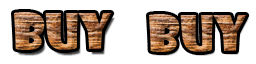
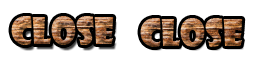
Измнение графики и игрового процесса
- Добавлено изображение диалогового окна при окнчании нападения;
- Уменьшены цены на дома и рабочих.

diff --git a/src/ru/majestic/thetown/resources/ResourceManager.java b/src/ru/majestic/thetown/resources/ResourceManager.java
@@ -76,6 +76,7 @@ public class ResourceManager {
    private BitmapTextureAtlas shopBuildingsTitleFontTextureAtlas;
    private BitmapTextureAtlas shopBuildingsTextFontTextureAtlas;
    
+   private BitmapTextureAtlas attackResultTitleFontTextureAtlas;
    private BitmapTextureAtlas attackResultFontTextureAtlas;
    
    private BitmapTextureAtlas errorFontTextureAtlas;
@@ -97,6 +98,7 @@ public class ResourceManager {
    
    private Font               shopBuildingsTitleFont;
    private Font               shopBuildingsTextFont;
+   private Font               attackResultTitleTextFont;
    private Font               attackResultTextFont;
    
    private Font               errorTextFont;
@@ -156,7 +158,7 @@ public class ResourceManager {
       workerFoodTextureRegion                   = BitmapTextureAtlasTextureRegionFactory.createFromAsset(workersShopTextureAtals, context, "gfx/shops/workers/worker_food_icon.png", 128, 256);
       workerDefenceTextureRegion                = BitmapTextureAtlasTextureRegionFactory.createFromAsset(workersShopTextureAtals, context, "gfx/shops/workers/worker_defence_icon.png", 128, 384);
       
-      attackTextureAtals                        = new BitmapTextureAtlas(engine.getTextureManager(), 512, 256);
+      attackTextureAtals                        = new BitmapTextureAtlas(engine.getTextureManager(), 1024, 1024);
       closeButtonTextureRegion                  = BitmapTextureAtlasTextureRegionFactory.createTiledFromAsset(attackTextureAtals, context, "gfx/attack/close_btn.png", 0, 0, 2, 1);
       attackDialogBgndTextureRegion             = BitmapTextureAtlasTextureRegionFactory.createFromAsset(attackTextureAtals, context, "gfx/attack/attack_dialog_background.png", 0, 64);
       
@@ -183,6 +185,7 @@ public class ResourceManager {
       addersFontTextureAtlas              = new BitmapTextureAtlas(engine.getTextureManager(), 256, 256, TextureOptions.BILINEAR_PREMULTIPLYALPHA);
       shopBuildingsTitleFontTextureAtlas  = new BitmapTextureAtlas(engine.getTextureManager(), 256, 256, TextureOptions.BILINEAR_PREMULTIPLYALPHA);
       shopBuildingsTextFontTextureAtlas   = new BitmapTextureAtlas(engine.getTextureManager(), 256, 256, TextureOptions.BILINEAR_PREMULTIPLYALPHA);            
+      attackResultTitleFontTextureAtlas   = new BitmapTextureAtlas(engine.getTextureManager(), 256, 256, TextureOptions.BILINEAR_PREMULTIPLYALPHA);
       attackResultFontTextureAtlas        = new BitmapTextureAtlas(engine.getTextureManager(), 256, 256, TextureOptions.BILINEAR_PREMULTIPLYALPHA);
       errorFontTextureAtlas               = new BitmapTextureAtlas(engine.getTextureManager(), 256, 256, TextureOptions.BILINEAR_PREMULTIPLYALPHA);
       
@@ -197,7 +200,8 @@ public class ResourceManager {
       addersFont              = FontFactory.createFromAsset(engine.getFontManager(), addersFontTextureAtlas, context.getAssets(), "fonts/main.ttf", 18, true, fontsColor);
       shopBuildingsTitleFont  = FontFactory.createFromAsset(engine.getFontManager(), shopBuildingsTitleFontTextureAtlas, context.getAssets(), "fonts/main.ttf", 20, true, fontsColor);
       shopBuildingsTextFont   = FontFactory.createFromAsset(engine.getFontManager(), shopBuildingsTextFontTextureAtlas, context.getAssets(), "fonts/main.ttf", 20, true, fontsColor);
-      attackResultTextFont    = FontFactory.createFromAsset(engine.getFontManager(), attackResultFontTextureAtlas, context.getAssets(), "fonts/main.ttf", 32, true, fontsColor);      
+      attackResultTitleTextFont = FontFactory.createFromAsset(engine.getFontManager(), attackResultTitleFontTextureAtlas, context.getAssets(), "fonts/main.ttf", 28, true, fontsColor);
+      attackResultTextFont    = FontFactory.createFromAsset(engine.getFontManager(), attackResultFontTextureAtlas, context.getAssets(), "fonts/main.ttf", 18, true, fontsColor);
       errorTextFont           = FontFactory.createFromAsset(engine.getFontManager(), errorFontTextureAtlas, context.getAssets(), "fonts/main.ttf", 32, true, Color.parseColor("#FF0000"));
       
       engine.getTextureManager().loadTexture(shopTitleFontTextureAtlas);
@@ -209,6 +213,7 @@ public class ResourceManager {
       engine.getTextureManager().loadTexture(addersFontTextureAtlas);
       engine.getTextureManager().loadTexture(shopBuildingsTitleFontTextureAtlas);
       engine.getTextureManager().loadTexture(shopBuildingsTextFontTextureAtlas);
+      engine.getTextureManager().loadTexture(attackResultTitleFontTextureAtlas);
       engine.getTextureManager().loadTexture(attackResultFontTextureAtlas);
       engine.getTextureManager().loadTexture(errorFontTextureAtlas);
       
@@ -221,8 +226,10 @@ public class ResourceManager {
       engine.getFontManager().loadFont(addersFont);      
       engine.getFontManager().loadFont(shopBuildingsTitleFont);
       engine.getFontManager().loadFont(shopBuildingsTextFont);
+      engine.getFontManager().loadFont(attackResultTitleTextFont);
       engine.getFontManager().loadFont(attackResultTextFont);
       engine.getFontManager().loadFont(errorTextFont);
+      
    }
    
    private void loadBackground(Context context) {
@@ -344,8 +351,8 @@ public class ResourceManager {
       return shopItemBackgroundTextureRegion;
    }
 
-   public Font getAttackResultTextFont() {
-      return attackResultTextFont;
+   public Font getAttackResultTitleTextFont() {
+      return attackResultTitleTextFont;
    }
 
    public Font getErrorTextFont() {
@@ -390,6 +397,10 @@ public class ResourceManager {
 
    public ITiledTextureRegion getSoundIconTextureRegion() {
       return soundIconTextureRegion;
+   }
+
+   public Font getAttackResultTextFont() {
+      return attackResultTextFont;
    }
          
 }

diff --git a/src/ru/majestic/thetown/view/attack/impl/SimpleAttackView.java b/src/ru/majestic/thetown/view/attack/impl/SimpleAttackView.java
@@ -8,30 +8,42 @@ import org.andengine.entity.sprite.Sprite;
 import org.andengine.entity.text.Text;
 
 import ru.majestic.thetown.andengine.TheTownCamera;
-import ru.majestic.thetown.game.attack.IAttack;
 import ru.majestic.thetown.resources.ResourceManager;
 import ru.majestic.thetown.view.attack.IAttackView;
 import ru.majestic.thetown.view.attack.listeners.OnAttackDialogClosedListener;
+import ru.majestic.thetown.view.utils.BigValueFormatter;
 
 public class SimpleAttackView extends Sprite implements IAttackView, OnClickListener {   
 
-   private static final int PANEL_PADDING = 4;
+   private static final int PANEL_PADDING = 8;
    
    private OnAttackDialogClosedListener onAttackDialogClosedListener;
    
    private final ButtonSprite    closeBtn;
    private final Text            resultText;
+      
+   private final Sprite          woodIcon;
+   private final Text            woodResultText;
+   
+   private final Sprite          foodIcon;
+   private final Text            foodResultText;      
    
    public SimpleAttackView() {
-      super(10, 200, TheTownCamera.CAMERA_WIDTH - 20, 300, ResourceManager.getInstance().getAttackDialogBgndTextureRegion(), ResourceManager.getInstance().getEngine().getVertexBufferObjectManager());
+      super(70, 230, TheTownCamera.CAMERA_WIDTH - 140, 200, ResourceManager.getInstance().getAttackDialogBgndTextureRegion(), ResourceManager.getInstance().getEngine().getVertexBufferObjectManager());
       
       setVisible(false);
       
       closeBtn              = new ButtonSprite(0, 0, ResourceManager.getInstance().getCloseButtonTextureRegion(), ResourceManager.getInstance().getEngine().getVertexBufferObjectManager());
-      resultText            = new Text(0, PANEL_PADDING, ResourceManager.getInstance().getAttackResultTextFont(), "You've been attacked!", ResourceManager.getInstance().getEngine().getVertexBufferObjectManager());
+      resultText            = new Text(0, PANEL_PADDING, ResourceManager.getInstance().getAttackResultTitleTextFont(), "You've been attacked!", ResourceManager.getInstance().getEngine().getVertexBufferObjectManager());
       
-      closeBtn.setWidth(200);
-      closeBtn.setHeight(50);            
+      woodIcon              = new Sprite(180, 85, 40, 40, ResourceManager.getInstance().getWoodIconTextureRegion(), ResourceManager.getInstance().getEngine().getVertexBufferObjectManager());
+      woodResultText        = new Text(woodIcon.getX() + woodIcon.getWidth() + 4, woodIcon.getY() + 8, ResourceManager.getInstance().getAttackResultTextFont(), "+100.00TT", ResourceManager.getInstance().getEngine().getVertexBufferObjectManager());
+      
+      foodIcon              = new Sprite(20, 85, 40, 40, ResourceManager.getInstance().getFoodIconTextureRegion(), ResourceManager.getInstance().getEngine().getVertexBufferObjectManager());
+      foodResultText        = new Text(foodIcon.getX() + foodIcon.getWidth() + 4, foodIcon.getY() + 8, ResourceManager.getInstance().getAttackResultTextFont(), "+100.00TT", ResourceManager.getInstance().getEngine().getVertexBufferObjectManager());
+      
+      closeBtn.setWidth(100);
+      closeBtn.setHeight(40);            
       closeBtn.setX((getWidth() - (PANEL_PADDING * 2) - closeBtn.getWidth()) / 2); 
       closeBtn.setY(getHeight() - PANEL_PADDING - closeBtn.getHeight());
       
@@ -41,6 +53,12 @@ public class SimpleAttackView extends Sprite implements IAttackView, OnClickList
       
       attachChild(closeBtn);
       attachChild(resultText);
+      
+      attachChild(woodIcon);
+      attachChild(woodResultText);
+      
+      attachChild(foodIcon);
+      attachChild(foodResultText);
    }   
    
    @Override
@@ -49,7 +67,18 @@ public class SimpleAttackView extends Sprite implements IAttackView, OnClickList
    }
 
    @Override
-   public void show(IAttack attack) {
+   public void show(boolean attackResult, long wood, long food) {
+      if(attackResult) {
+         resultText.setText("You've been attacked!");         
+         woodResultText.setText("-" + BigValueFormatter.format(wood));
+         foodResultText.setText("-" + BigValueFormatter.format(food));         
+      } else {
+         resultText.setText("Attackers defeated!");
+         woodResultText.setText("+" + BigValueFormatter.format(wood));
+         foodResultText.setText("+" + BigValueFormatter.format(food));
+      }      
+      
+      resultText.setX((getWidth() - resultText.getWidth()) / 2);
       setVisible(true);
    }
    

diff --git a/src/ru/majestic/thetown/activity/GameActivity.java b/src/ru/majestic/thetown/activity/GameActivity.java
@@ -71,7 +71,7 @@ public class GameActivity extends BaseGameActivity implements OnClickerClickedLi
                                                               OnAttackDialogClosedListener,
                                                               OnSoundStateChangedListener {
 
-	private Camera 	camera;
+	private Camera 	     camera;
 	
 	private Scene          scene;
 	private IGameManager   gameManager;
@@ -216,7 +216,6 @@ public class GameActivity extends BaseGameActivity implements OnClickerClickedLi
       if(clicker == woodClicker) {
          gameManager.getCargoManager().getCargo(ICargoManager.CARGO_TYPE_WOOD).add(gameManager.getClickersManager().getClicker(IClickersManager.CLICKER_TYPE_WOOD).getResourcesPerClick());
          woodClicker.showAdder(x, y, gameManager.getClickersManager().getClicker(IClickersManager.CLICKER_TYPE_WOOD).getResourcesPerClick());
-//         ResourceManager.getInstance().getSoundsManager().getRandomWoodClickerClickSound().play();
       }            
       
       resourcesCounterPanel.update();
@@ -379,19 +378,17 @@ public class GameActivity extends BaseGameActivity implements OnClickerClickedLi
 
    @Override
    public void onTimeToAttack() {
+      foodClicker.unregisterTouchArea(scene);
+      woodClicker.unregisterTouchArea(scene);
+      soundStateView.unregisterTouchArea(scene);
+      shopsMenu.unregisterTouchArea(scene);
+      
+      attackView.registerTouchArea(scene);
+      
       if(gameManager.getAttackManager().getAttack().getAttackPower() > gameManager.getWorkersManager().getResourcesPerSecond(WorkerType.DEFENCE)) {
-         foodClicker.unregisterTouchArea(scene);
-         woodClicker.unregisterTouchArea(scene);
-         soundStateView.unregisterTouchArea(scene);
-         shopsMenu.unregisterTouchArea(scene);
-         
-         attackView.registerTouchArea(scene);
-         attackView.show(gameManager.getAttackManager().getAttack());
+         attackView.show(true, gameManager.getCargoManager().getCargo(ICargoManager.CARGO_TYPE_WOOD).getCurrentCount(), gameManager.getCargoManager().getCargo(ICargoManager.CARGO_TYPE_FOOD).getCurrentCount());
       } else {      
-         gameManager.getAttackManager().getAttack().update(gameManager.getTown());
-         gameManager.save(this);
-         
-         TheTownNotificationManager.reset(this);
+         attackView.show(false, gameManager.getAttackManager().getAttack().getWoodReward(), gameManager.getAttackManager().getAttack().getFoodReward());         
       }
    }
 
@@ -404,10 +401,16 @@ public class GameActivity extends BaseGameActivity implements OnClickerClickedLi
       
       attackView.unregisterTouchArea(scene);
       attackView.close();
-      
-      gameManager.getCargoManager().getCargo(ICargoManager.CARGO_TYPE_WOOD).clear();
-      gameManager.getCargoManager().getCargo(ICargoManager.CARGO_TYPE_FOOD).clear();        
-      resourcesCounterPanel.update();            
+
+      if(gameManager.getAttackManager().getAttack().getAttackPower() > gameManager.getWorkersManager().getResourcesPerSecond(WorkerType.DEFENCE)) {
+         gameManager.getCargoManager().getCargo(ICargoManager.CARGO_TYPE_WOOD).clear();
+         gameManager.getCargoManager().getCargo(ICargoManager.CARGO_TYPE_FOOD).clear();        
+         resourcesCounterPanel.update();            
+      } else {
+         gameManager.getCargoManager().getCargo(ICargoManager.CARGO_TYPE_WOOD).add(gameManager.getAttackManager().getAttack().getWoodReward());
+         gameManager.getCargoManager().getCargo(ICargoManager.CARGO_TYPE_FOOD).add(gameManager.getAttackManager().getAttack().getFoodReward());
+         resourcesCounterPanel.update();
+      }
       
       gameManager.getAttackManager().getAttack().update(gameManager.getTown());
       gameManager.save(this);

diff --git a/src/ru/majestic/thetown/notifications/TheTownNotificationManager.java b/src/ru/majestic/thetown/notifications/TheTownNotificationManager.java
@@ -77,13 +77,19 @@ public class TheTownNotificationManager extends BroadcastReceiver {
             saveNotificationShowed(context, SAVE_TAG_HOUR);
             showAttackNotificaton(context, AttackTimeType.HOUR);
             return;
-         }                  
-      }
-      
-      if(nextAttack.getTimeToNextAttack() - System.currentTimeMillis() < 0 && !isNotifictionAlreadyShowed(context, SAVE_TAG_ATTACKED)) {
-         saveNotificationShowed(context, SAVE_TAG_ATTACKED);
-         showAttackedNotificaton(context);
-         return;
+         }
+         
+         if(nextAttack.getTimeToNextAttack() - System.currentTimeMillis() < 0 && !isNotifictionAlreadyShowed(context, SAVE_TAG_ATTACKED)) {
+            saveNotificationShowed(context, SAVE_TAG_ATTACKED);
+            showAttackedNotificaton(context, true);
+            return;
+         }
+      } else {
+         if(nextAttack.getTimeToNextAttack() - System.currentTimeMillis() < 0 && !isNotifictionAlreadyShowed(context, SAVE_TAG_ATTACKED)) {
+            saveNotificationShowed(context, SAVE_TAG_ATTACKED);
+            showAttackedNotificaton(context, false);
+            return;
+         }
       }
    }
    
@@ -113,11 +119,20 @@ public class TheTownNotificationManager extends BroadcastReceiver {
       }
    }
    
-   private void showAttackedNotificaton(Context context) {
-      NotificationCompat.Builder mBuilder = new NotificationCompat.Builder(context)
+   private void showAttackedNotificaton(Context context, boolean attackSuccess) {
+      NotificationCompat.Builder mBuilder = null;
+      
+      if(attackSuccess) {
+         mBuilder = new NotificationCompat.Builder(context)
+               .setSmallIcon(R.drawable.swords_icon)
+               .setContentTitle("You've been attacked!")
+               .setContentText("Come and check your Town. New wave of attackers come soon.");
+      } else {
+         mBuilder = new NotificationCompat.Builder(context)
             .setSmallIcon(R.drawable.swords_icon)
-            .setContentTitle("You've been attacked!")
-            .setContentText("Come and check your Town. New wave of attackers come soon.");
+            .setContentTitle("Attackers have been defeated!")
+            .setContentText("Come and take your reward!");
+      }
 
       Intent resultIntent = new Intent(context, GameActivity.class);
 

diff --git a/src/ru/majestic/thetown/game/attack/impl/Attack.java b/src/ru/majestic/thetown/game/attack/impl/Attack.java
@@ -18,7 +18,7 @@ public class Attack implements IAttack {
    @Override
    public void load(SharedPreferences prefs) {      
       nextAttackTime = prefs.getLong(SAVE_TAG_NEXT_ATTACK_TIME, System.currentTimeMillis() + ATTACK_PERIOD);
-      attackPower    = prefs.getInt(SAVE_TAG_ATTACK_POWER, 0);            
+      attackPower    = prefs.getInt(SAVE_TAG_ATTACK_POWER, 3);            
    }
 
    @Override
@@ -35,12 +35,22 @@ public class Attack implements IAttack {
    @Override
    public void update(ITown town) {
       nextAttackTime = System.currentTimeMillis() + ATTACK_PERIOD;
-      attackPower    = (int) (Math.pow(2, town.getLvl())) + 1;
+      attackPower    = (int) (Math.pow(2, town.getLvl()));
    }
 
    @Override
    public int getAttackPower() {
       return attackPower;
+   }
+
+   @Override
+   public long getWoodReward() {
+      return (long) Math.pow(attackPower, 3.4f) + 1000;
+   }
+
+   @Override
+   public long getFoodReward() {
+      return (long) Math.pow(attackPower, 3.4f) + 1000;
    }
 
 }

diff --git a/src/ru/majestic/thetown/view/attack/IAttackView.java b/src/ru/majestic/thetown/view/attack/IAttackView.java
@@ -1,6 +1,5 @@
 package ru.majestic.thetown.view.attack;
 
-import ru.majestic.thetown.game.attack.IAttack;
 import ru.majestic.thetown.view.IClickableView;
 import ru.majestic.thetown.view.attack.listeners.OnAttackDialogClosedListener;
 
@@ -8,7 +7,7 @@ public interface IAttackView extends IClickableView {
 
    public void setOnAttackDialogClosedListener(OnAttackDialogClosedListener onAttackDialogClosedListener);
    
-   public void show           (IAttack attack);
+   public void show           (boolean attackResult, long wood, long food);
    public void close          ();
    public boolean isVisible   ();
    

diff --git a/src/ru/majestic/thetown/game/buildings/impl/BuildingRank5.java b/src/ru/majestic/thetown/game/buildings/impl/BuildingRank5.java
@@ -8,7 +8,7 @@ public class BuildingRank5 extends ABuilding {
    private static final String SAVE_TAG_CURRENT_COUNT = "SAVE_TAG_LOG_CABIN_CURRENT_COUNT";
    
    public BuildingRank5() {
-      super("Log cabin", 100000000.0f, 10000, 10000, ResourceManager.getInstance().getHomeIconTextureRegion());
+      super("Log cabin", 10000000.0f, 10000, 10000, ResourceManager.getInstance().getHomeIconTextureRegion());
    }
 
    @Override

diff --git a/src/ru/majestic/thetown/game/buildings/impl/BuildingRank2.java b/src/ru/majestic/thetown/game/buildings/impl/BuildingRank2.java
@@ -8,7 +8,7 @@ public class BuildingRank2 extends ABuilding {
    private static final String SAVE_TAG_CURRENT_COUNT = "SAVE_TAG_BIG_TENT_CURRENT_COUNT";
    
    public BuildingRank2() {
-      super("Big tent", 100000.0f, 10, 10, ResourceManager.getInstance().getHomeIconTextureRegion());
+      super("Big tent", 10000.0f, 10, 10, ResourceManager.getInstance().getHomeIconTextureRegion());
    }
 
    @Override

diff --git a/src/ru/majestic/thetown/game/buildings/impl/BuildingRank3.java b/src/ru/majestic/thetown/game/buildings/impl/BuildingRank3.java
@@ -8,7 +8,7 @@ public class BuildingRank3 extends ABuilding {
    private static final String SAVE_TAG_CURRENT_COUNT = "SAVE_TAG_SHACK_CURRENT_COUNT";
    
    public BuildingRank3() {
-      super("Shack", 1000000.0f, 100, 100, ResourceManager.getInstance().getHomeIconTextureRegion());
+      super("Shack", 100000.0f, 100, 100, ResourceManager.getInstance().getHomeIconTextureRegion());
    }
 
    @Override

diff --git a/src/ru/majestic/thetown/game/buildings/impl/BuildingRank4.java b/src/ru/majestic/thetown/game/buildings/impl/BuildingRank4.java
@@ -8,7 +8,7 @@ public class BuildingRank4 extends ABuilding {
    private static final String SAVE_TAG_CURRENT_COUNT = "SAVE_TAG_HUT_CURRENT_COUNT";
    
    public BuildingRank4() {
-      super("Hut", 10000000.0f, 1000, 1000, ResourceManager.getInstance().getHomeIconTextureRegion());
+      super("Hut", 1000000.0f, 1000, 1000, ResourceManager.getInstance().getHomeIconTextureRegion());
    }
 
    @Override

diff --git a/src/ru/majestic/thetown/game/buildings/impl/BuildingRank1.java b/src/ru/majestic/thetown/game/buildings/impl/BuildingRank1.java
@@ -8,7 +8,7 @@ public class BuildingRank1 extends ABuilding {
    private static final String SAVE_TAG_CURRENT_COUNT = "SAVE_TAG_TENT_CURRENT_COUNT";
    
    public BuildingRank1() {
-      super("Tent", 10000.0f, 1, 1, ResourceManager.getInstance().getHomeIconTextureRegion());
+      super("Tent", 1000.0f, 1, 1, ResourceManager.getInstance().getHomeIconTextureRegion());
    }
 
    @Override

diff --git a/src/ru/majestic/thetown/game/workers/ADefenceWorker.java b/src/ru/majestic/thetown/game/workers/ADefenceWorker.java
@@ -1,6 +1,7 @@
 package ru.majestic.thetown.game.workers;
 
 
+
 public abstract class ADefenceWorker extends AWorker {
 
    public ADefenceWorker(String title, float priceKoeff, int exp, int homePlace, int resourcesPerSec) {
@@ -11,5 +12,4 @@ public abstract class ADefenceWorker extends AWorker {
    public WorkerType getType() {
       return WorkerType.DEFENCE;
    }
-
 }
